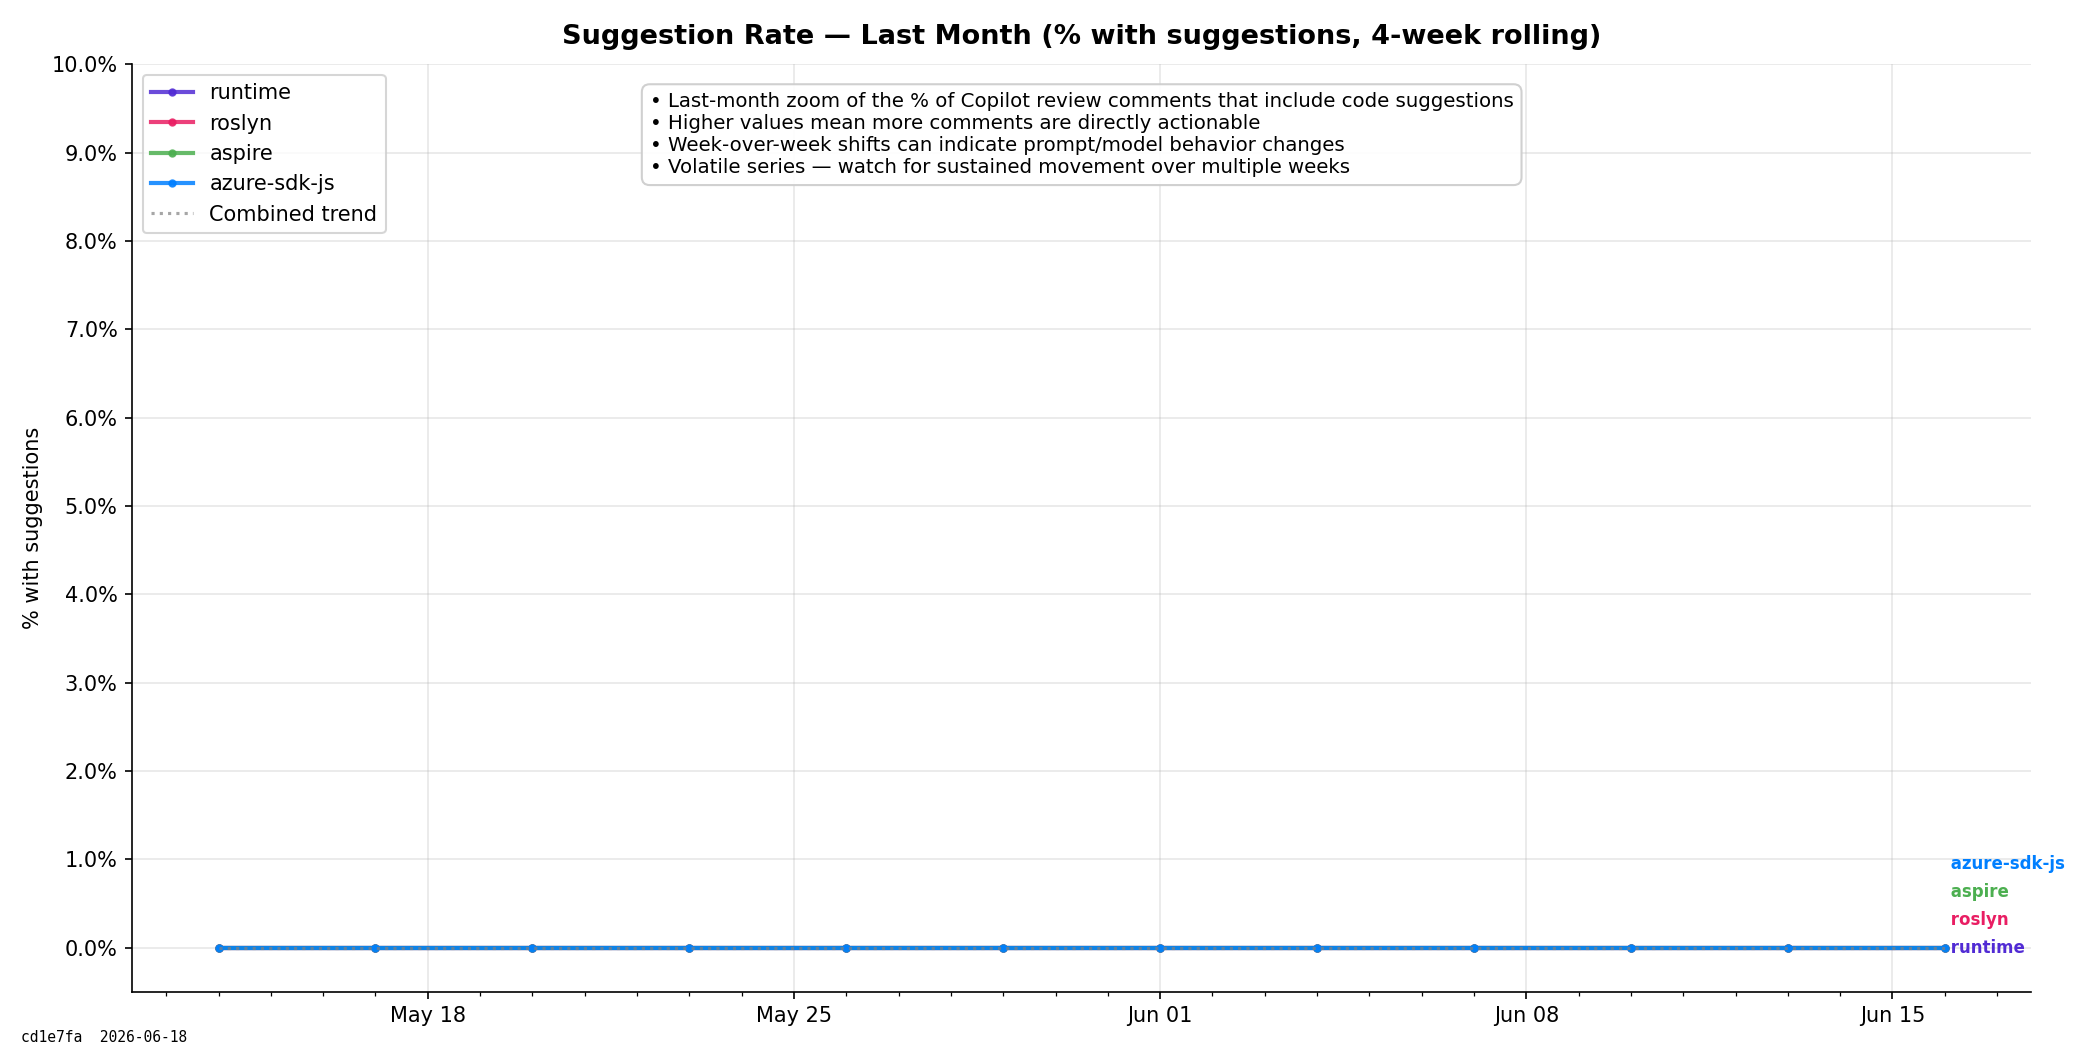
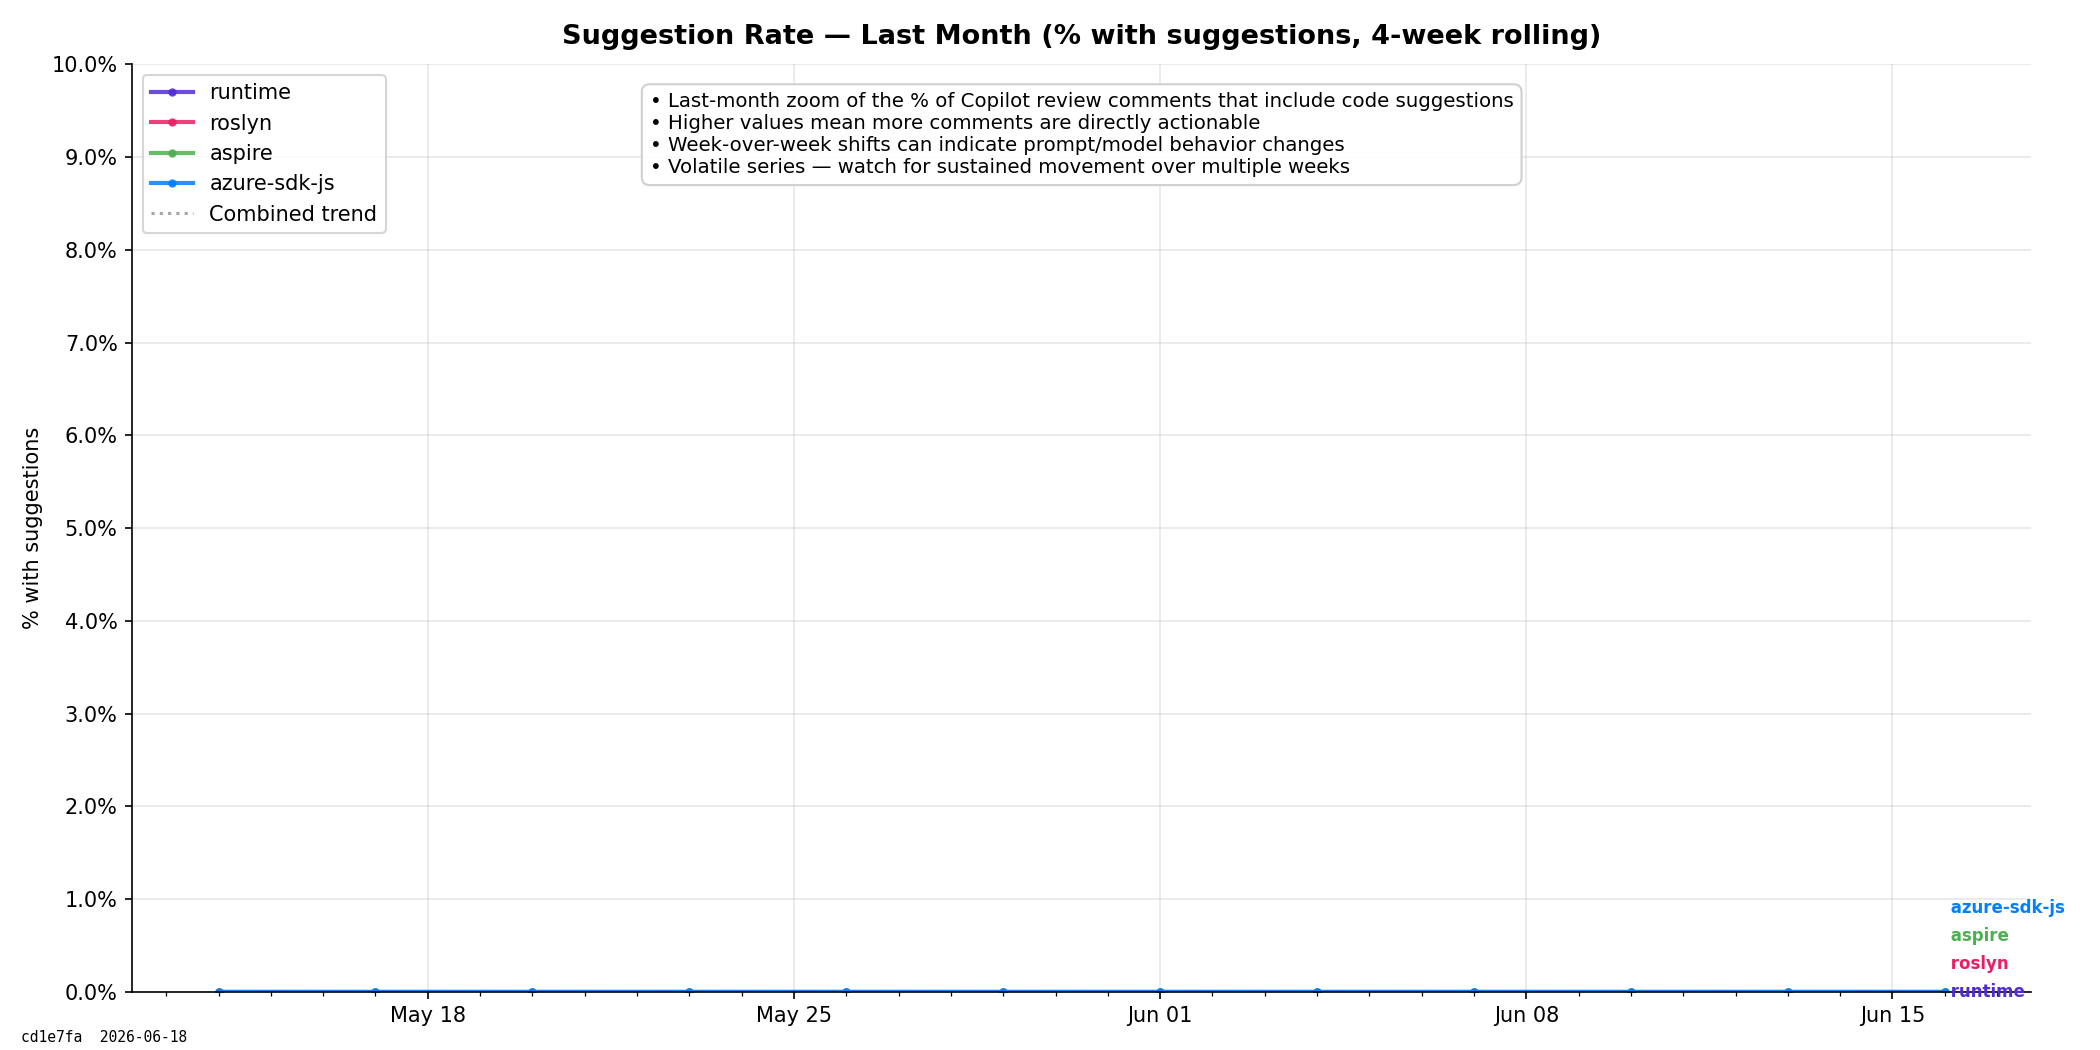
Fix suggestion rate month axis

diff --git a/analyze.py b/analyze.py
@@ -4593,8 +4593,7 @@ def chart_review_suggestion_rate(
     if month_zoom:
         ymax = max(max(series) for series in visible_data) if visible_data else 0
         upper = 10 if ymax <= 10 else 100
-        lower = -0.5 if ymax <= 1 else 0
-        ax.set_ylim(lower, upper)
+        ax.set_ylim(0, upper)
         if upper <= 10:
             ax.yaxis.set_major_locator(MultipleLocator(1))
             ax.yaxis.set_major_formatter(FuncFormatter(lambda x, p: f"{x:.1f}%"))
